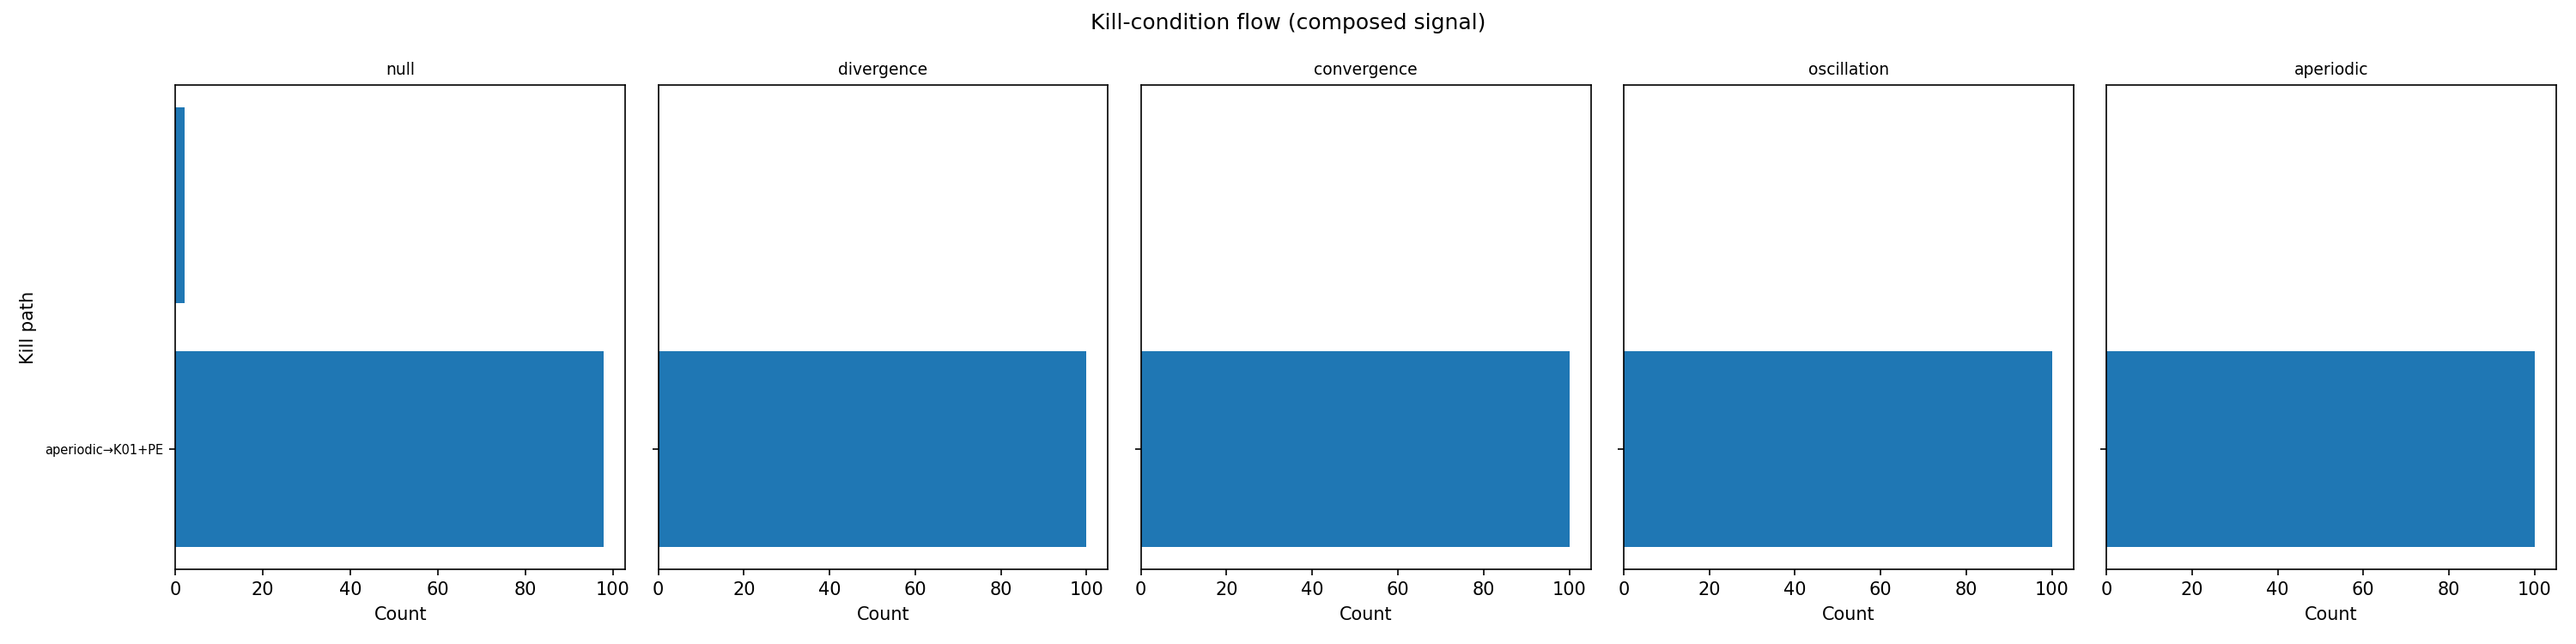
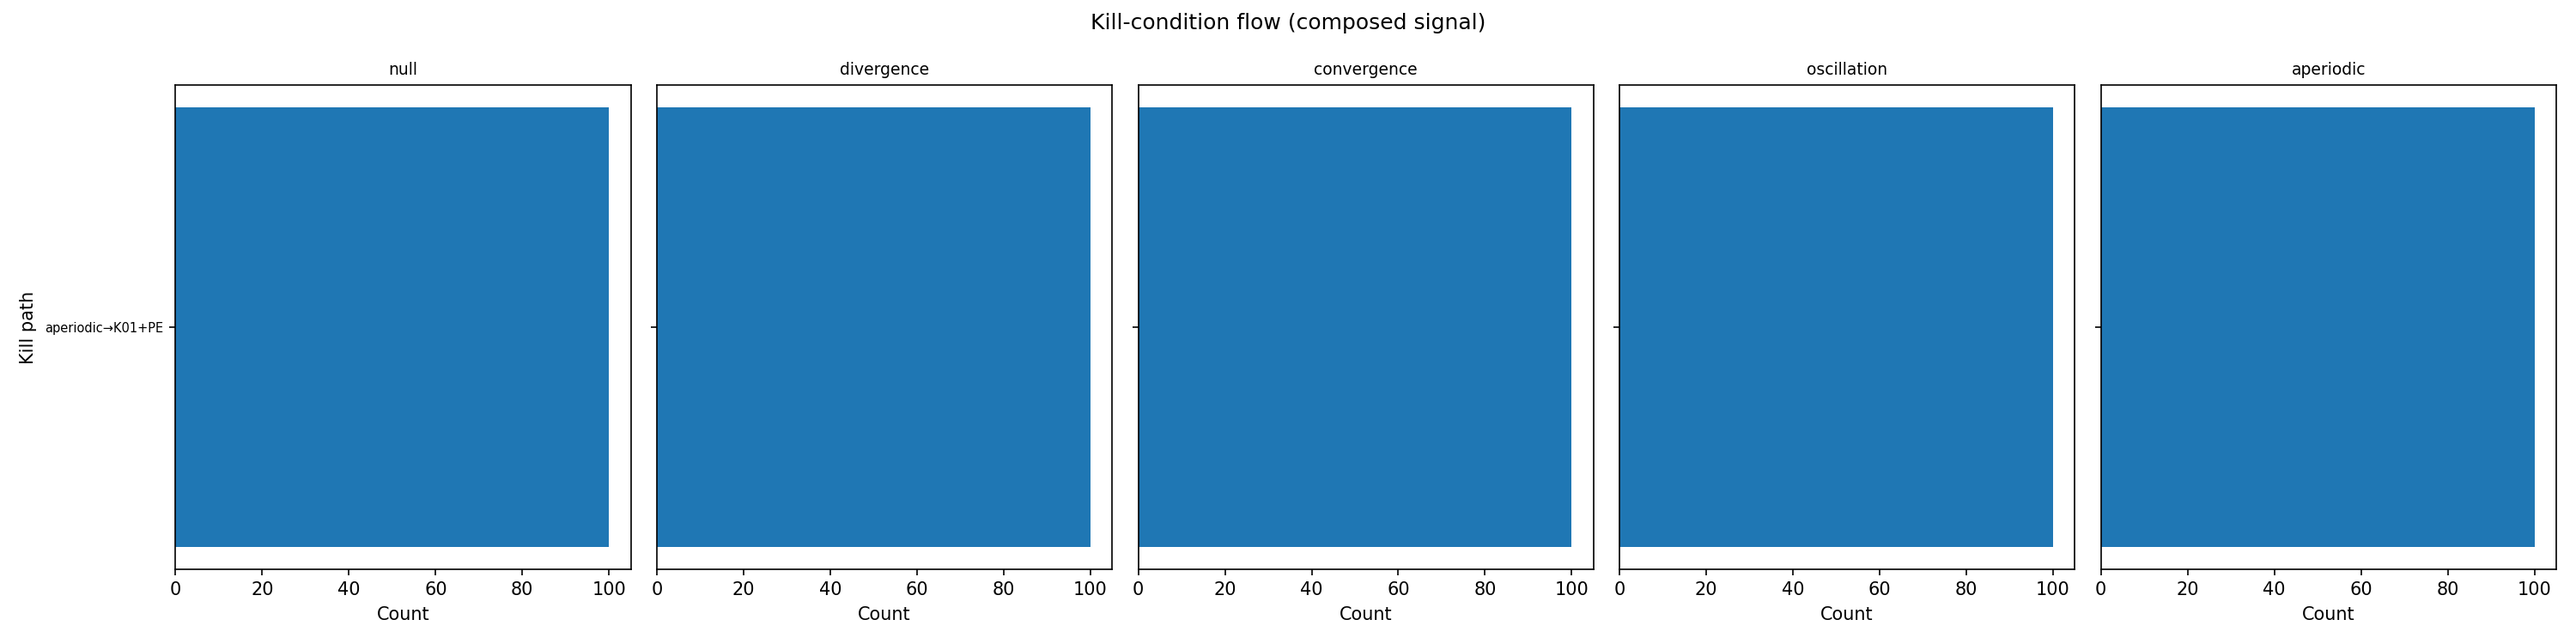
V3 rerun: F1=1.000 with 1000 null reps. Prereg V4: robustness analysis
V3 rerun with proper 1000-rep null calibration: perfect classification
across all five labels. Codex adversarial review flagged manual amplitudes,
post-hoc period filter, and synthetic cleanliness. V4 pre-registers five
stress tests: amplitude sensitivity curves, decision-tree ablation, mixed
dynamics, degraded conditions, period filter sweep.

diff --git a/src/fourbin.py b/src/fourbin.py
@@ -635,7 +635,7 @@ def main():
     print("=" * 60)
     print("PHASE 1: Null calibration (1000 reps)")
     print("=" * 60)
-    thresholds, null_features = run_null_calibration(cfg, n_reps=200)
+    thresholds, null_features = run_null_calibration(cfg, n_reps=1000)
 
     print("\n" + "=" * 60)
     print("PHASE 2: Amplitudes (manual, iterate to find weak-signal regime)")

diff --git a/PREREGISTRATION_V4.md b/PREREGISTRATION_V4.md
@@ -1,0 +1,107 @@
+# Pre-registration: Robustness and sensitivity analysis
+
+Fourth pre-registration. V1 tested single-stream diagnostics. V2 tested heterogeneous composition for periodicity. V3 tested four-bin classification on composed trajectories (F1 = 1.000 on clean synthetic data). V4 tests whether V3's result survives adversarial conditions.
+
+## What V3 established
+
+The kill-condition classifier (monotone → curvature → periodicity → aperiodic → null) achieves perfect classification on composed e-value trajectories from five heterogeneous streams sharing a forcing signal, across five labels (null, convergent, divergent, oscillatory, aperiodic). Standardized sums fail on divergence and aperiodic. Individual streams detect only oscillation.
+
+## What V3 left open (per codex adversarial review)
+
+1. **Manual amplitudes.** Divergence amplitude (1.5) is 15× oscillation amplitude (0.1). Difficulty is not equalized across bins.
+2. **Period > 10 filter is post-hoc.** Added after observing aperiodic misclassified as oscillatory. No sensitivity analysis.
+3. **Synthetic archetypes are too clean.** Pure forcing, independent streams, stationary nulls. Real data has mixed dynamics, correlated streams, and nonstationary baselines.
+4. **No confidence intervals.** 100 eval reps per condition, no bootstrap CIs on F1.
+
+## Claim 6: Robustness under adversarial conditions
+
+**Question:** Does V3's classifier maintain F1 > 0.8 under equalized difficulty, threshold perturbation, mixed dynamics, and degraded conditions?
+
+### Analysis 1: Amplitude sensitivity curves
+
+For each forcing pattern, sweep amplitude from 0 to 2× the V3 value in 20 steps. At each amplitude, run 100 reps on the composed signal. Report detection rate (correct label) as a function of amplitude. Plot per-bin sensitivity curves.
+
+**Prediction:** Each bin has a detection threshold below which classification fails. The thresholds differ across bins (divergence needs more signal than oscillation). The curves should be sigmoid-shaped with a sharp transition.
+
+**What this reveals:** Whether V3's amplitudes are in the easy regime (plateau) or near the cliff (transition). If all four bins are on the plateau, the amplitudes were too generous.
+
+### Analysis 2: Decision-tree ablation
+
+Remove each decision-tree component one at a time and measure the impact on F1:
+
+1. Remove monotone test (skip straight to curvature)
+2. Remove curvature test (monotone → periodicity)
+3. Remove period > 10 filter
+4. Remove 0-1 test (rely on PE alone for aperiodic)
+5. Remove PE (rely on 0-1 test alone for aperiodic)
+
+**Prediction:** Curvature removal breaks convergence/divergence separation. Period filter removal breaks aperiodic/oscillatory separation. Each component is load-bearing.
+
+### Analysis 3: Mixed dynamics
+
+Generate conditions where two forcing patterns are superimposed:
+
+| Condition | Forcing | Expected label |
+|---|---|---|
+| trend + oscillation | A_div · (t/N − 0.5) + A_osc · sin(2πt/T) | ambiguous |
+| oscillation + aperiodic | A_osc · sin(2πt/T) + A_aper · z̃_t | ambiguous |
+| convergence + oscillation | A_conv · exp(−t/τ) + A_osc · sin(2πt/T) | ambiguous |
+| weak divergence + noise | A_div · (t/N − 0.5) + heavy-tailed noise | divergent or null |
+
+100 reps per condition. Report the classifier's label distribution. There is no "correct" answer for mixed dynamics; the point is to see how the classifier degrades.
+
+**Prediction:** The classifier picks the dominant pattern. When both are near-threshold, it picks whichever test fires first in the hierarchy.
+
+### Analysis 4: Degraded conditions
+
+Test the classifier under five realistic degradations:
+
+1. **Autocorrelated null.** Replace i.i.d. null with AR(1) φ = 0.5 null. Does the null false positive rate increase?
+2. **Correlated streams.** Add shared noise (ρ = 0.3) across all five streams. Does composition still outperform standardized sum?
+3. **Missing data.** Randomly drop 10% of observations per stream. Does classification degrade?
+4. **Misspecified distribution.** Replace the Normal stream with a t-distribution (df=5). Does the e-value remain valid?
+5. **Nonstationary baseline.** Add a slow drift (0.01 · t/N) to the null mean. Does null false positive rate increase?
+
+100 reps per degradation × 5 conditions. Report per-condition F1 under each degradation.
+
+**Prediction:** Autocorrelated nulls increase false positive rate for monotone detection. Correlated streams reduce the composition advantage. Missing data degrades gracefully. Misspecified distribution has minimal impact (e-values are robust to mild misspecification). Nonstationary baseline is the hardest — it mimics divergence.
+
+### Analysis 5: Period filter sensitivity
+
+Sweep the period filter threshold from 2 to 50 in steps of 2. At each threshold, run 100 reps of the aperiodic condition and 100 reps of the oscillatory condition. Report:
+- Aperiodic correct classification rate
+- Oscillatory correct classification rate
+- The threshold at which aperiodic and oscillatory cross (if they do)
+
+**Prediction:** Below period ≈ 8, aperiodic gets misclassified as oscillatory (logistic map period-2 structure). Above period ≈ 20, some short-period oscillatory patterns get missed.
+
+### Experiment parameters
+
+- N = 10,000 observations per stream
+- K = 5 streams (same as V3)
+- 1000 null calibration reps (same seeds as V3: 80000–80999)
+- 100 eval reps per condition per analysis
+- V3 amplitudes as baseline: null=0, divergence=1.5, convergence=1.5, oscillation=0.1, aperiodic=0.5
+- All thresholds from V3's 1000-rep null calibration
+
+### Outputs
+
+- `results/tables/sensitivity_amplitude.csv` — per-bin detection rate × amplitude
+- `results/tables/ablation.csv` — F1 per ablation condition
+- `results/tables/mixed_dynamics.csv` — label distribution per mixed condition
+- `results/tables/degraded.csv` — per-condition F1 under each degradation
+- `results/tables/period_filter.csv` — classification rates × period threshold
+- `results/plots/sensitivity_curves.png` — amplitude sensitivity per bin
+- `results/plots/ablation.png` — F1 bar chart per ablation
+- `results/plots/degraded_heatmap.png` — F1 heatmap: degradation × condition
+
+### Falsification
+
+- If F1 drops below 0.6 under any single degradation, the classifier is fragile.
+- If amplitude sensitivity shows all bins are on the plateau (>90% detection at 50% of V3 amplitude), V3's amplitudes were too generous and the result is weaker than it appears.
+- If removing the period > 10 filter has no effect, it was unnecessary.
+- If correlated streams reduce composed F1 to the level of standardized sum, the Fisher information advantage is an independence artifact.
+
+### References
+
+All V1–V3 references apply. No new citations needed — this is a stress test of existing methods.
